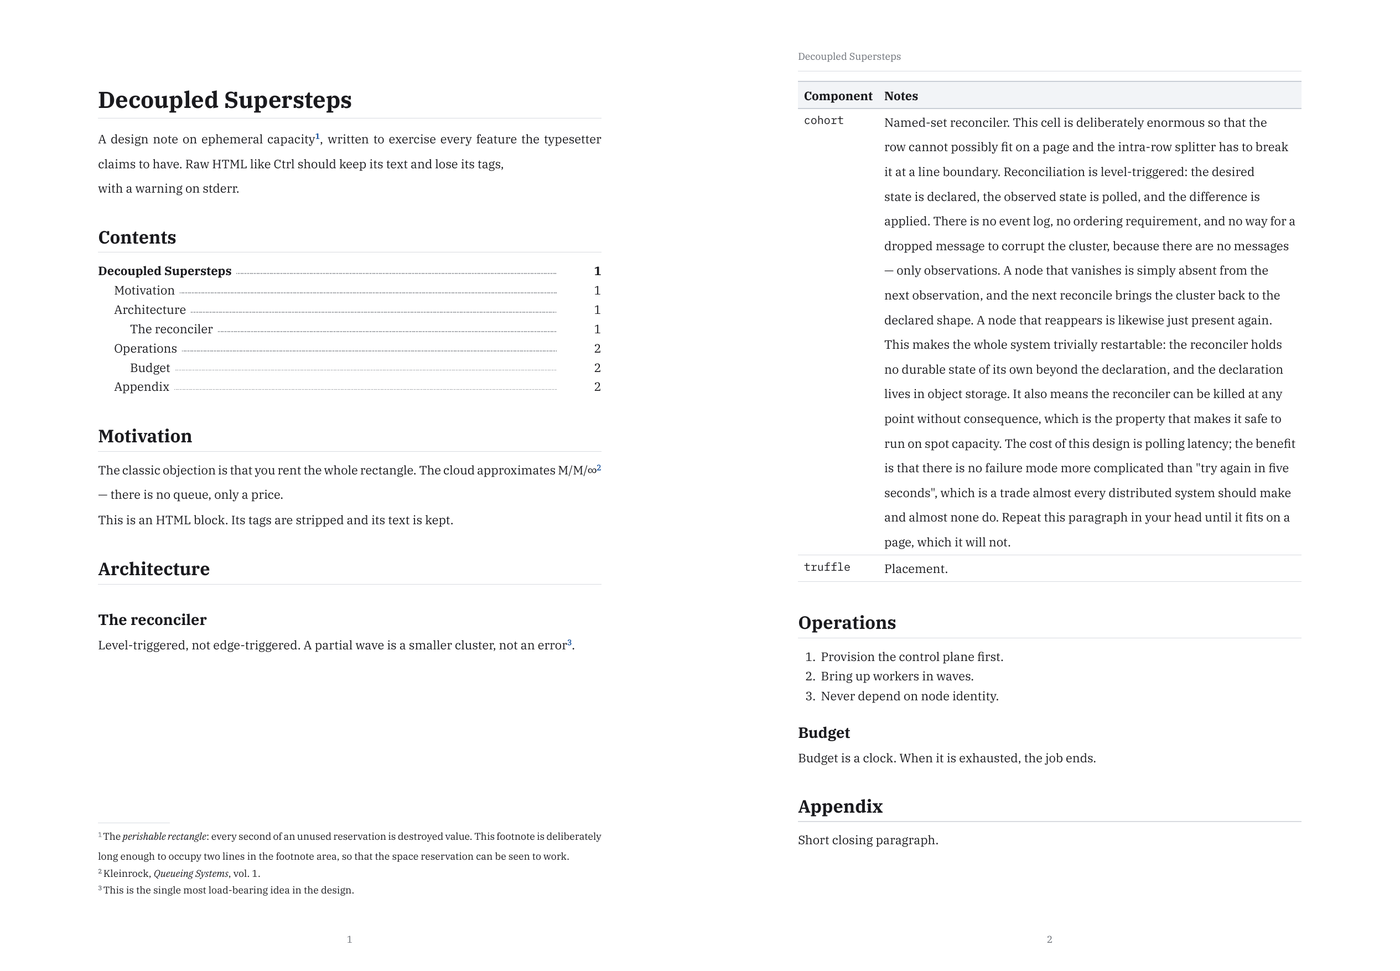
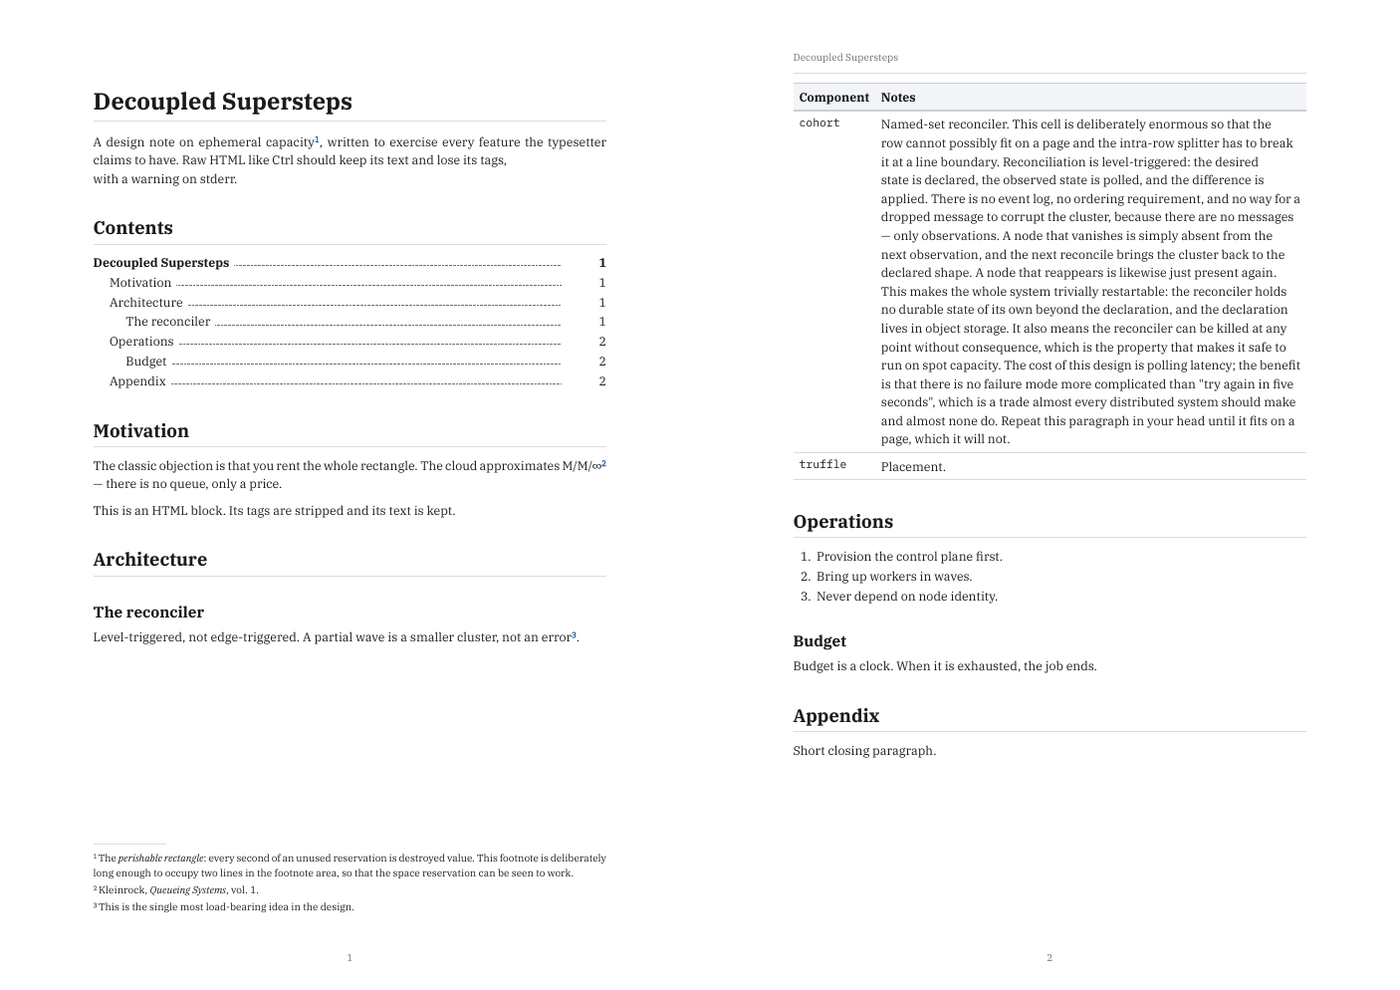
Release v0.6.0: date the changelog, refresh the README sample
Moves the Unreleased CHANGELOG entries under [0.6.0], regenerates
example.pdf and docs/img/example.png from testdata/gaps.md (the 1.5x
line spacing and other v0.6.0 changes alter the output), and corrects
the README alt text, which described a table row splitting across pages
that the sample doesn't show.

diff --git a/CHANGELOG.md b/CHANGELOG.md
@@ -6,6 +6,8 @@ All notable changes to inkcap. The format follows
 
 ## [Unreleased]
 
+## [0.6.0] — 2026-11-16
+
 ### Changed
 - **Breaking:** `typography.line_height` is now a multiple of the font size,
   like CSS `line-height`, with a default of `1.5` (GitHub's). It used to mean
@@ -128,7 +130,8 @@ First release.
 - List bullet glyph follows nesting depth, not the millimetre inset (#5).
 - Definition lists render instead of flattening into paragraphs (#6).
 
-[Unreleased]: https://github.com/scttfrdmn/inkcap/compare/v0.5.0...HEAD
+[Unreleased]: https://github.com/scttfrdmn/inkcap/compare/v0.6.0...HEAD
+[0.6.0]: https://github.com/scttfrdmn/inkcap/compare/v0.5.0...v0.6.0
 [0.5.0]: https://github.com/scttfrdmn/inkcap/compare/v0.4.0...v0.5.0
 [0.4.0]: https://github.com/scttfrdmn/inkcap/compare/v0.3.0...v0.4.0
 [0.3.0]: https://github.com/scttfrdmn/inkcap/compare/v0.2.0...v0.3.0

diff --git a/README.md b/README.md
@@ -14,8 +14,8 @@ no CSS engine.
 *Coprinopsis atramentaria*, the inkcap: a mushroom that deliquesces into black ink.
 
 ![Two pages rendered by inkcap: a table of contents with dotted leaders and page
-numbers, page-anchored footnotes, a running header, and a table whose oversized
-row splits across the page break with its header repeated.](docs/img/example.png)
+numbers, page-anchored footnotes, a running header, and a table with a
+deliberately enormous cell, set at 1.5x line spacing.](docs/img/example.png)
 
 *[`testdata/gaps.md`](testdata/gaps.md) rendered with `inkcap -toc gaps.md`. The
 full PDF is [`example.pdf`](example.pdf).*
